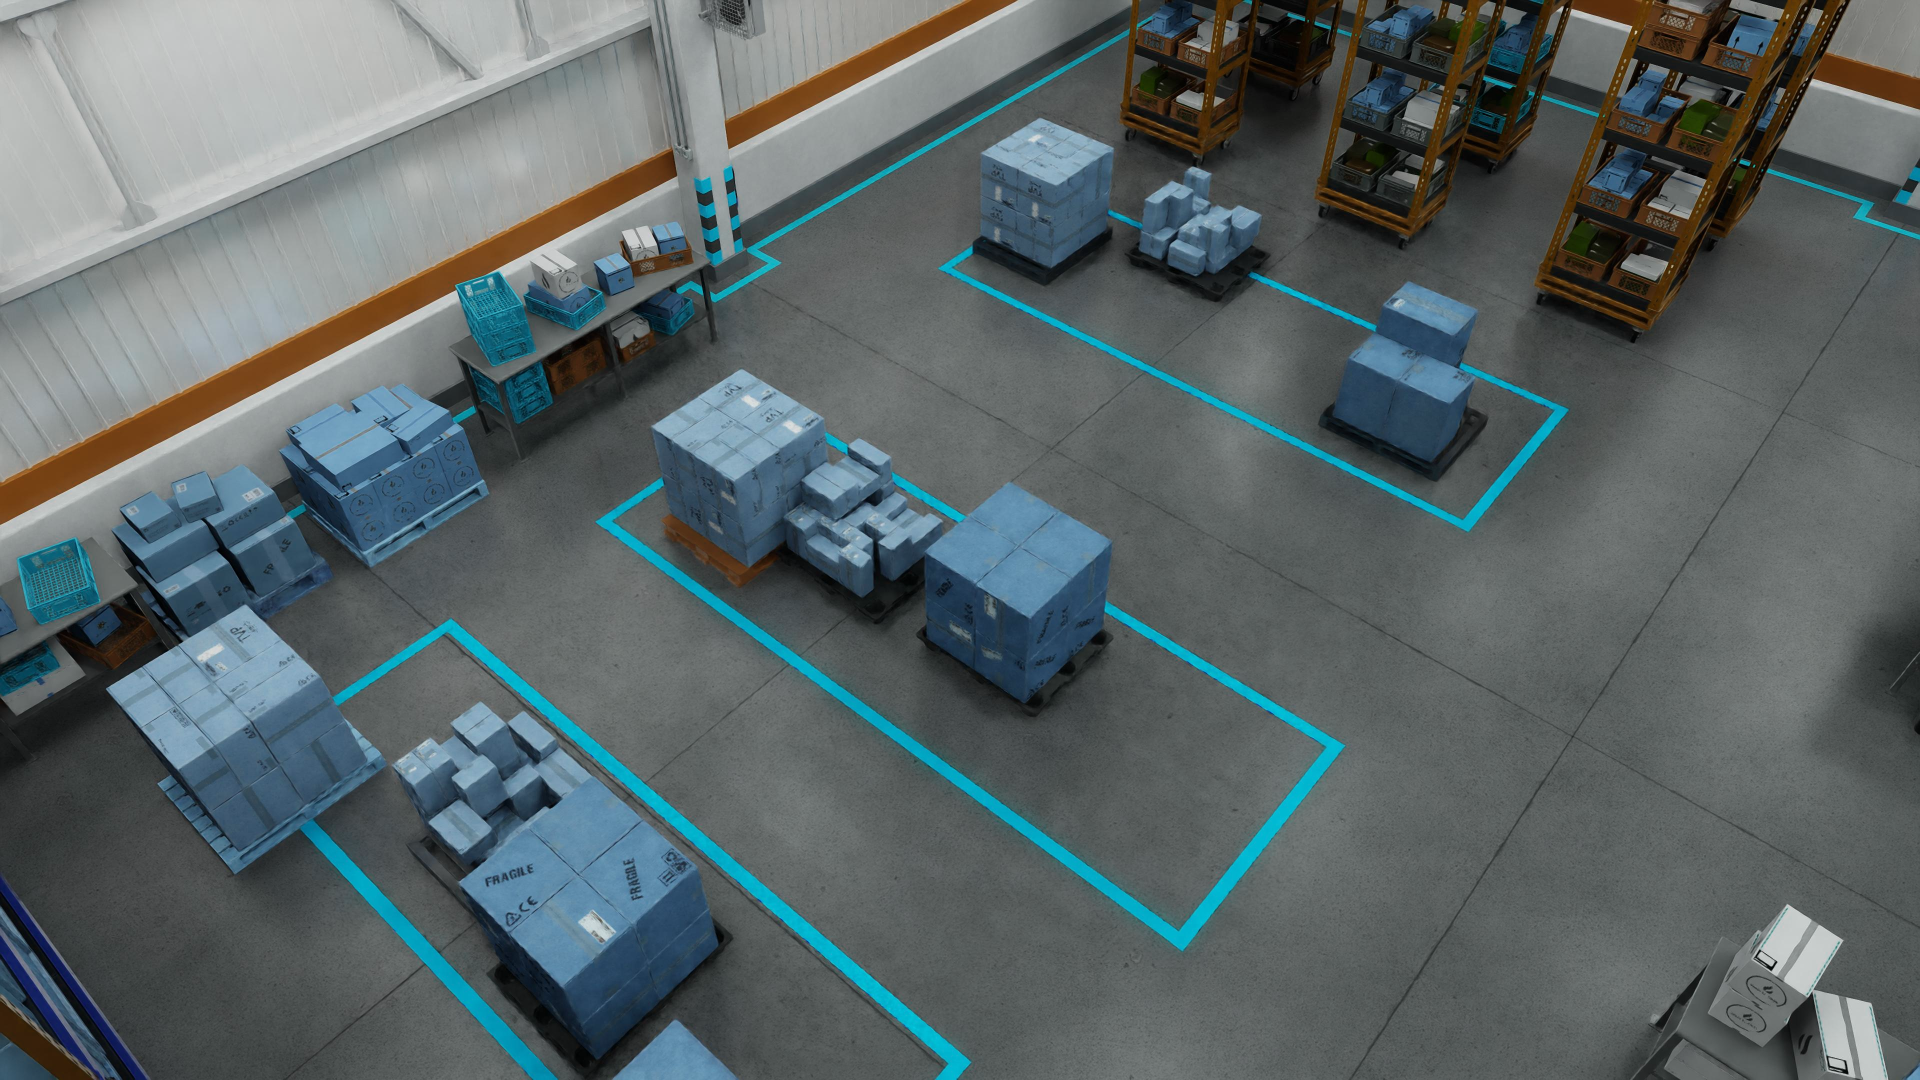
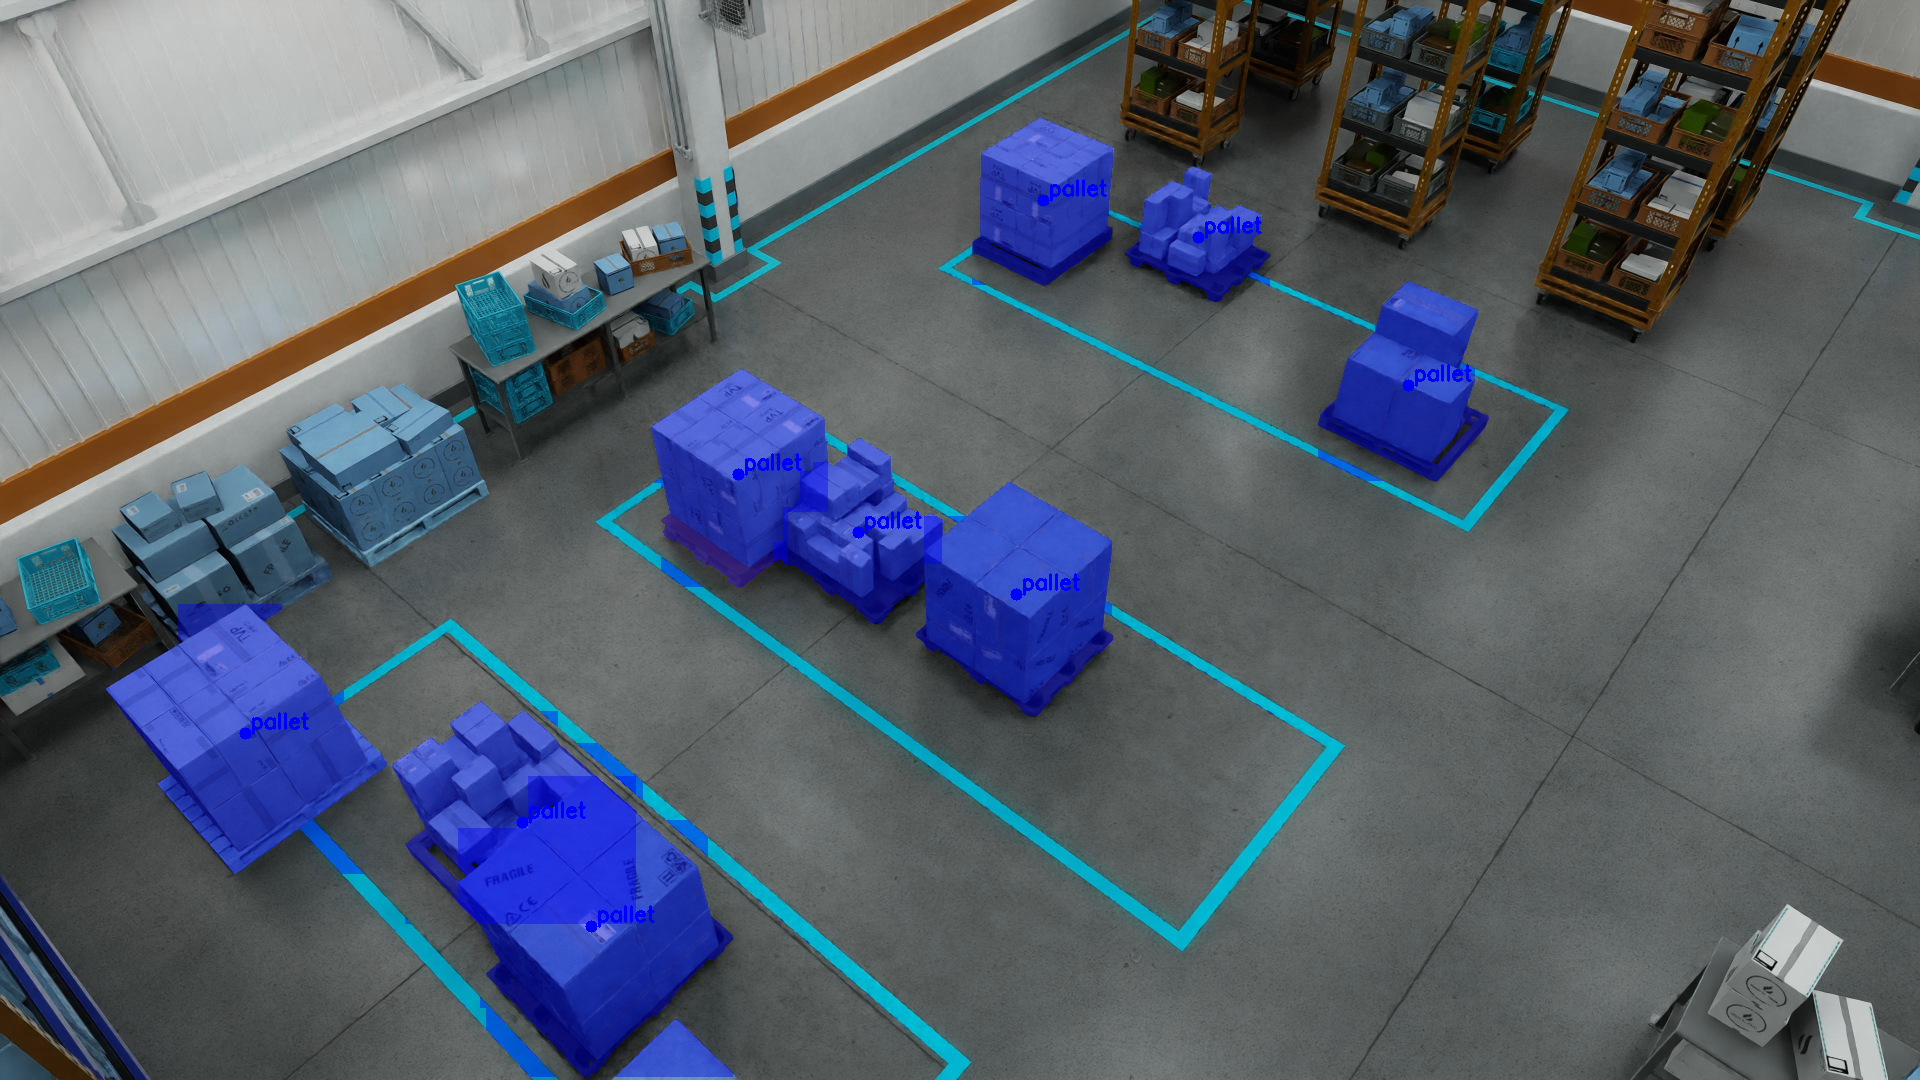
New experiment

diff --git a/utils/visualize.py b/utils/visualize.py
@@ -20,13 +20,26 @@ VALID_CLASSES = {
 ID2CLASS = {0: "pallet", 1: "transporter", 2: "shelf"}
 
 
-def extract_mask_classes(question):
-    """
-    Trả về list class theo thứ tự <mask> xuất hiện
-    Ví dụ: ['pallet', 'buffer', 'shelf']
-    """
-    pattern = r"(pallet|buffer|transporter|shelf)\s*<mask>"
-    return re.findall(pattern, question.lower())
+def infer_mask_classes_general(question):
+    q = question.lower()
+
+    tokens = re.findall(r"(pallets?|transporters?|shelves?|buffers?|<mask>)", q)
+
+    classes = []
+    current_class = None
+
+    for tok in tokens:
+        if tok in ["pallet", "pallets"]:
+            current_class = "pallet"
+        elif tok in ["transporter", "transporters"]:
+            current_class = "transporter"
+        elif tok in ["shelf", "shelves"]:
+            current_class = "shelf"
+        elif tok in ["buffer", "buffers"]:
+            current_class = "buffer"
+        elif tok == "<mask>":
+            classes.append(current_class)
+    return classes
 
 
 def map_rle_to_labels(sample, valid_classes):
@@ -38,7 +51,7 @@ def map_rle_to_labels(sample, valid_classes):
         list of (class_id, rle)
     """
     question = sample["conversations"][0]["value"]
-    class_seq = extract_mask_classes(question)
+    class_seq = infer_mask_classes_general(question)
 
     labeled_masks = []
 

diff --git a/utils/show.py b/utils/show.py
@@ -41,6 +41,8 @@ for idx, sample in enumerate(samples):
         print(f"FORMAT: {sample['conversations'][0]}, {len(sample['rle'])} masks")
 
     img = cv2.imread(img_path)
+    if img is None:
+        continue
     overlay = img.copy()
 
     for i, rle in enumerate(sample["rle"]):
